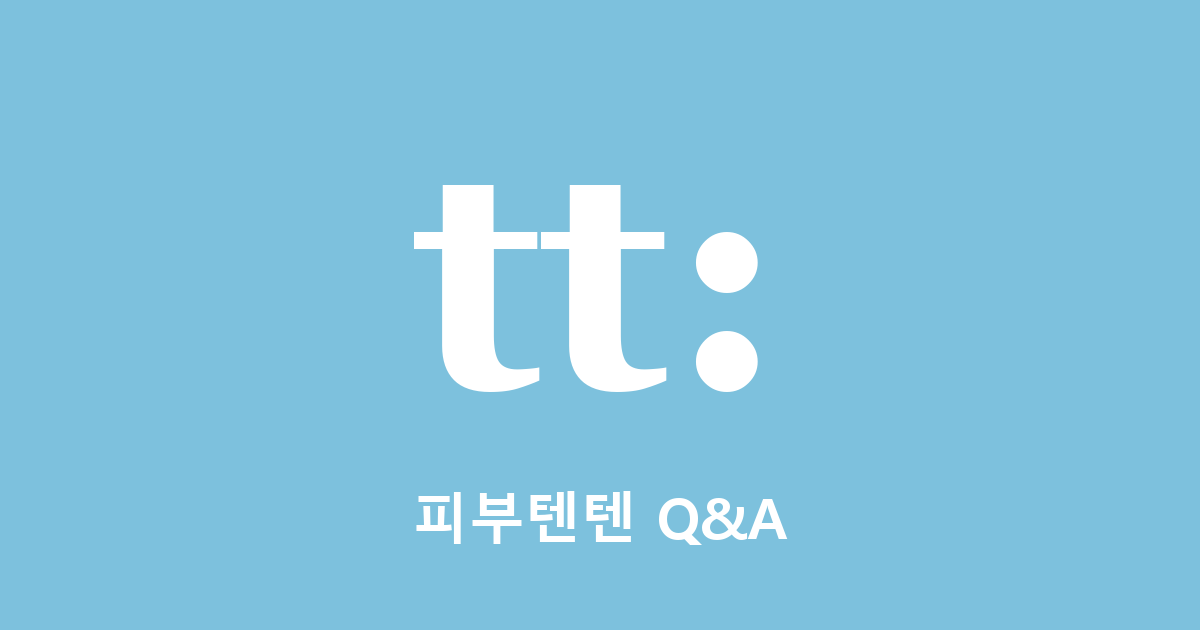
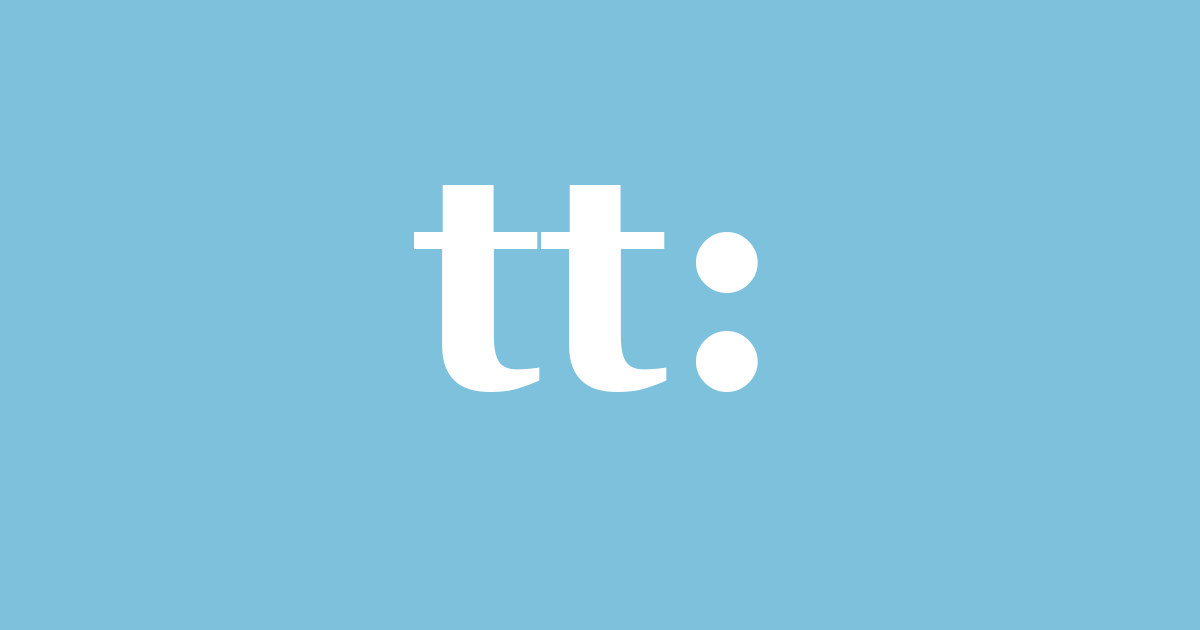
fix: og.png Q&A·텍스트 모두 제거 (sharp로 원본 편집, 텍스트 영역 하늘색 덮음) + 배정민 아이보리→연한 회색
- public/og.png: pbtt-search/og.png 원본에서 하단 텍스트 영역만 #7DC1DD로 덮어 'tt:' 심볼만 보존
- layout.tsx: opengraph-image.tsx 동적 생성 제거, 정적 og.png 다시 명시
- baejungmin: #FAF0D7(아이보리, 노란기) → #E5E9F0(연한 회색)

Changed region(s): [[0.3392, 0.7841, 0.6783, 0.8746]]

diff --git a/src/app/layout.tsx b/src/app/layout.tsx
@@ -37,12 +37,13 @@ export const metadata: Metadata = {
     title: "피부텐텐",
     description: "피부가 예뻐지는 모든 이야기",
     locale: "ko_KR",
-    // /opengraph-image 라우트(자동 생성, Q&A 글씨 없는 logo 가운데 + 하늘색)
+    images: [{ url: "/og.png", width: 1200, height: 630, alt: "피부텐텐" }],
   },
   twitter: {
     card: "summary_large_image",
     title: "피부텐텐",
     description: "피부가 예뻐지는 모든 이야기",
+    images: ["/og.png"],
   },
 };
 

diff --git a/src/lib/doctor-theme.ts b/src/lib/doctor-theme.ts
@@ -19,7 +19,7 @@ export type DoctorTheme = {
 
 const THEMES: Record<string, DoctorTheme> = {
   jeonghanmi:  { bg: "#FCE7F0", bgSoft: "#FFF1F6", ring: "#F8C0D2", accent: "#B8517A" }, // 핑크
-  baejungmin:  { bg: "#FAF0D7", bgSoft: "#FCF6E5", ring: "#E8D9A8", accent: "#8A6F1F", offsetX: 6 }, // 아이보리
+  baejungmin:  { bg: "#E5E9F0", bgSoft: "#F0F3F8", ring: "#C8CFD8", accent: "#54616F", offsetX: 6 }, // 연한 회색
   kwonsuhyun:  { bg: "#EAE2F8", bgSoft: "#F4EFFA", ring: "#C8B8E5", accent: "#6648A8" }, // 라벤더
   kimsoohyung: { bg: "#FFF6CF", bgSoft: "#FFFBE6", ring: "#F2E08F", accent: "#9A7B12" }, // 노랑
   gohyerim:    { bg: "#B2DFDB", bgSoft: "#D4ECEA", ring: "#80CBC4", accent: "#00695C" }, // 진한 민트 (Teal 100)